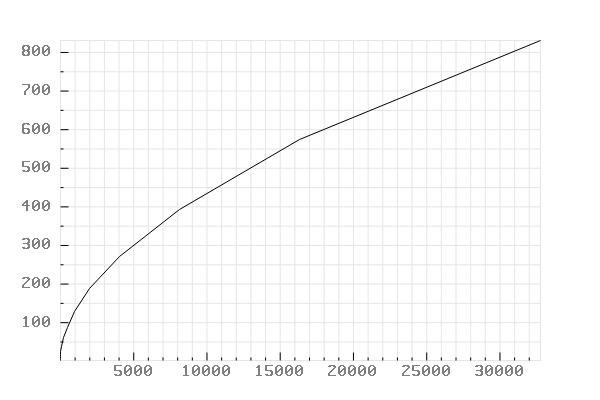
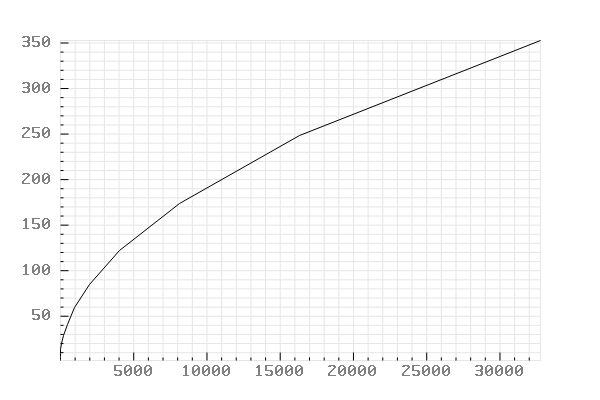
Fixed a major bug that caused time inefficiency and messed with values of LIS

diff --git a/source/main.cpp b/source/main.cpp
@@ -5,16 +5,13 @@
 #include <cstddef>
 #include <iostream>
 
-#define NUM_REPEATED_TRIALS 1
+#define NUM_REPEATED_TRIALS 1000
 #define NUM_POWERS_OF_TWO 15
 
 int main()
 {
     // Initialize plotted image ref
     RGBABitmapImageReference* imageRef = CreateRGBABitmapImageReference();
-
-    // Calculate length of longest increasing/decreasing subsequence using Schensted
-    Schensted schensted;
 
     std::vector<double> nValues;
     std::vector<double> averageLongestIncreasingSubsequence;
@@ -23,13 +20,16 @@ int main()
     // 1 to n
     for (size_t i = 1; i <= NUM_POWERS_OF_TWO; i++) {
 
-        double sumOfIncreasingSubsequenceLengths = 0.0;
-        double sumOfDecreasingSubsequenceLengths = 0.0;
+        size_t sumOfIncreasingSubsequenceLengths = 0;
+        size_t sumOfDecreasingSubsequenceLengths = 0;
 
         double twoToTheI = pow(2, i);
 
         // Repeated trials
         for (size_t rt = 0; rt < NUM_REPEATED_TRIALS; rt++) {
+            // Calculate length of longest increasing/decreasing subsequence using Schensted
+            Schensted schensted;
+
             std::vector<size_t> permutedSequence = getPermutation(twoToTheI);
             std::pair<size_t, size_t> longestSubsequences = schensted.longestSubsequences(permutedSequence);
 
